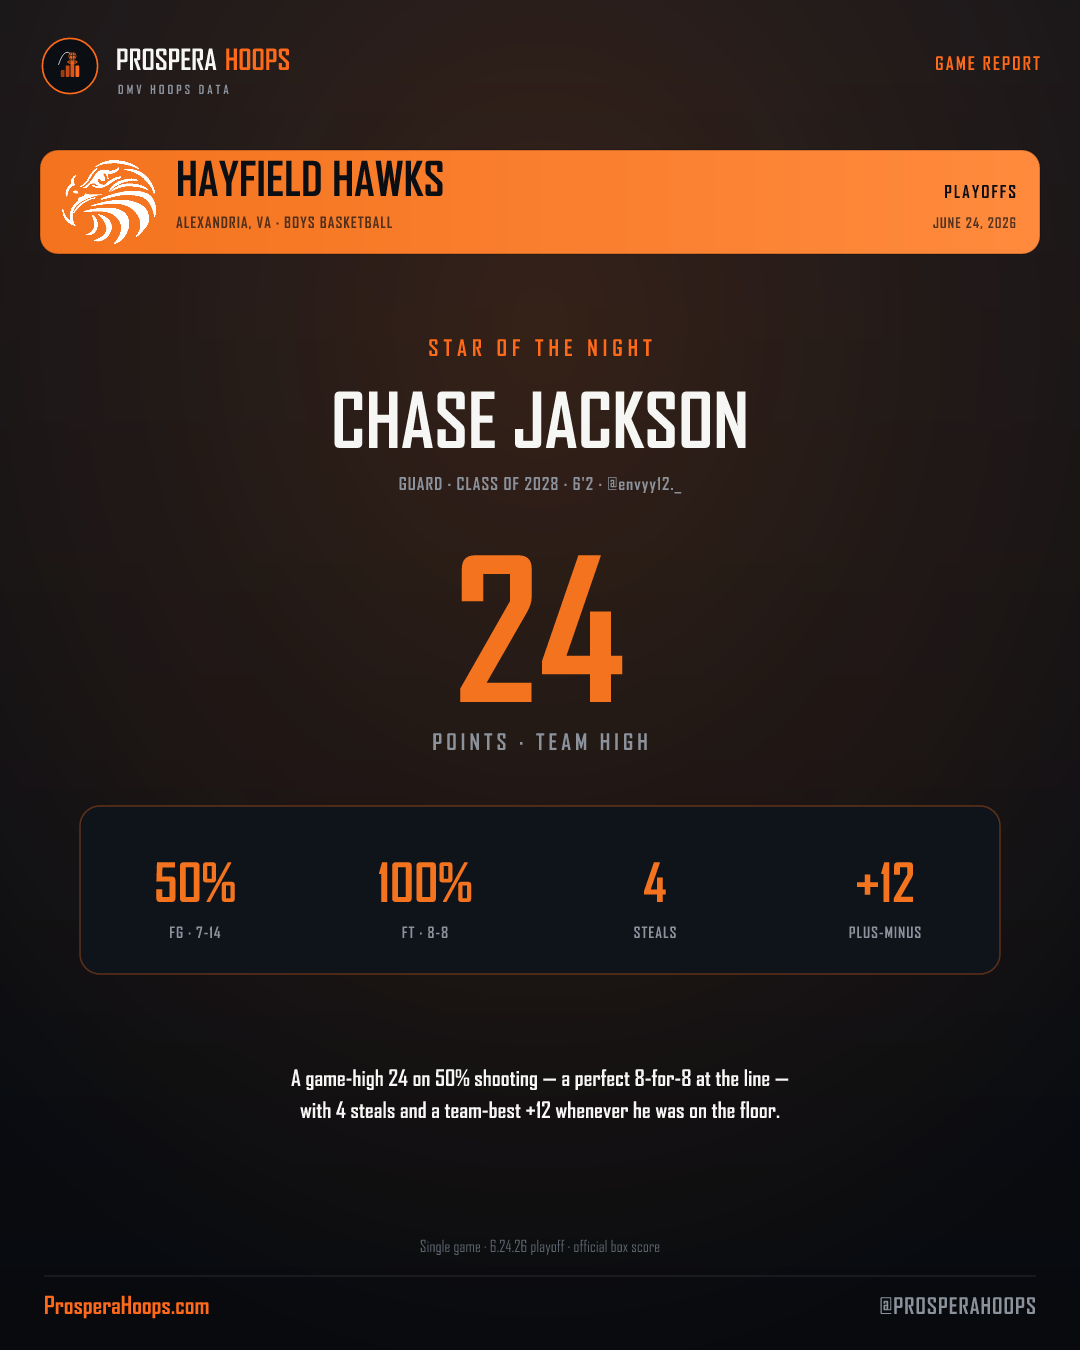
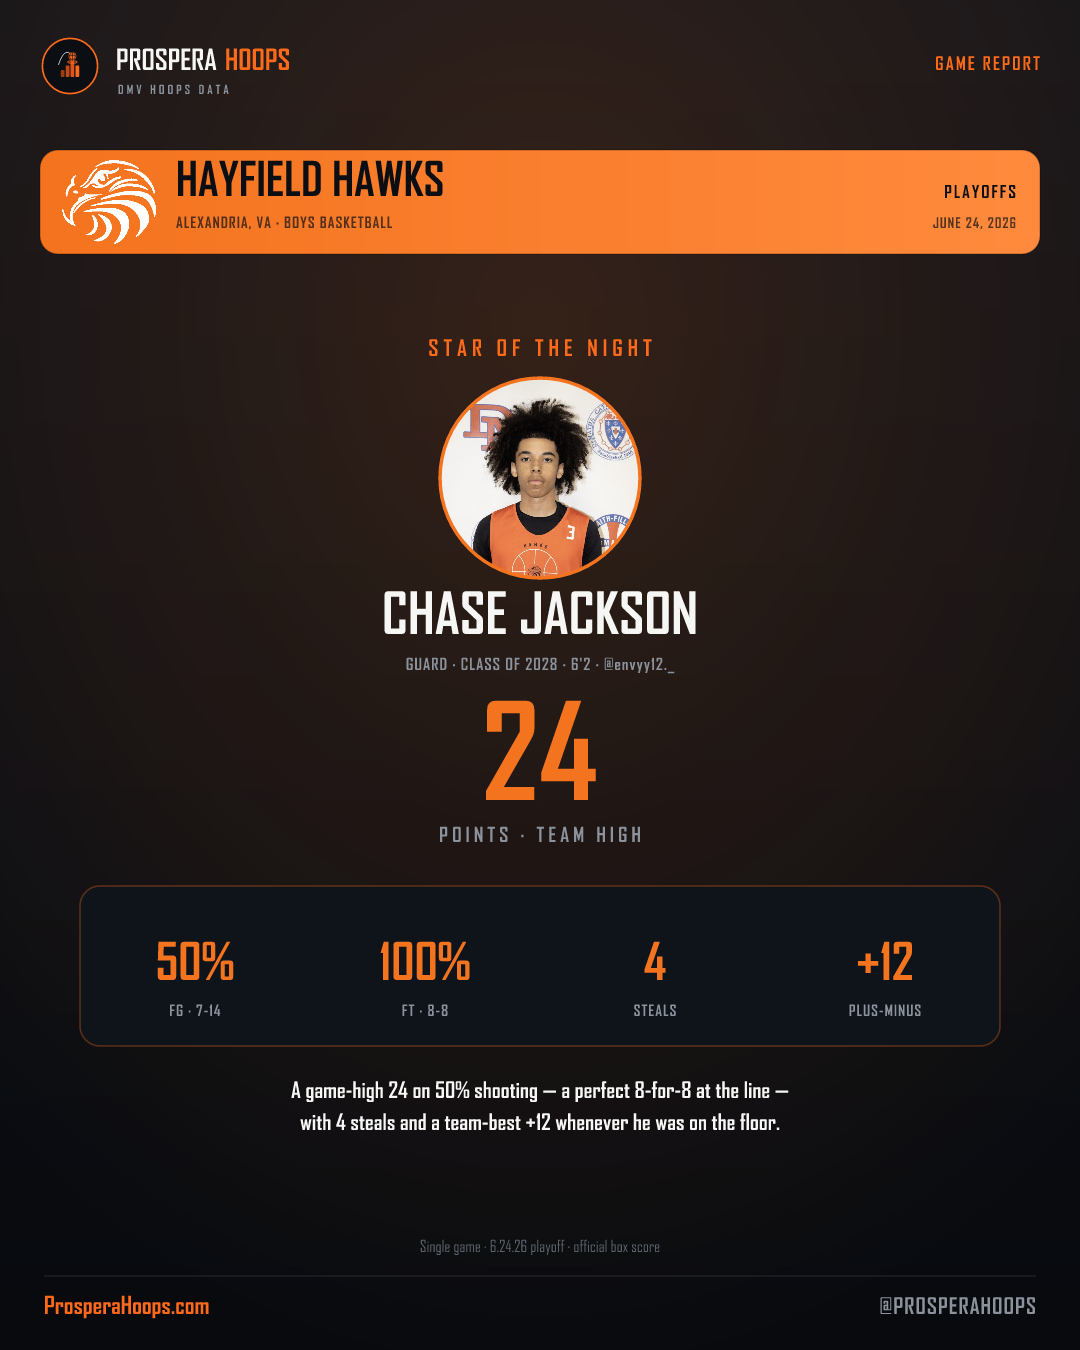
Playoff pack polish: rename Standouts (not 'Who Showed Up'), uniform eyebrow typography, player headshots on slides 2/5/6/9

Changed region(s): [[0.275, 0.28, 0.7333, 0.84], [0.1222, 0.6222, 0.2139, 0.7778], [0.7944, 0.6222, 0.8556, 0.7778]]

diff --git a/docs/social-posts/playoff-0624/captions.md b/docs/social-posts/playoff-0624/captions.md
@@ -16,7 +16,7 @@ The Hawks went toe-to-toe to the wire — tied **13 times**, **11 lead changes**
 
 Down 6 at the half, Hayfield answered with a **38–32 second half (52% FG, 50% from three)** to force overtime.
 
-WHO SHOWED UP ⬇
+STANDOUTS ⬇
 🔸 Chase Jackson — 24 PTS (7-14 FG, perfect 8-8 FT), 4 STL, +12
 🔸 Christian Towe — 19 PTS, 6 REB, 2 STL, 1 BLK
 🔸 Grant Cage — 14 PTS, 5 REB
